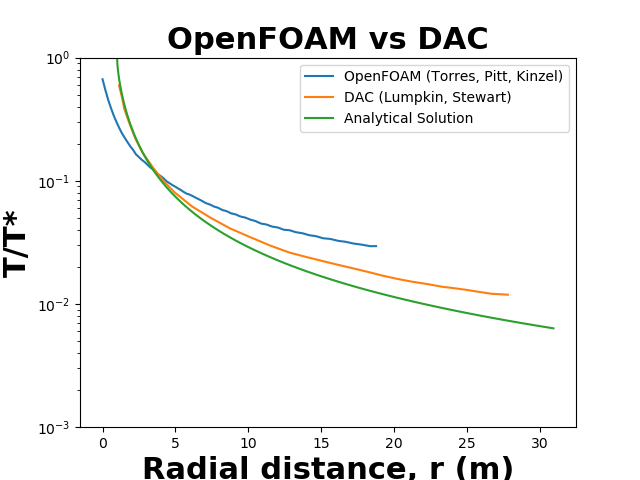
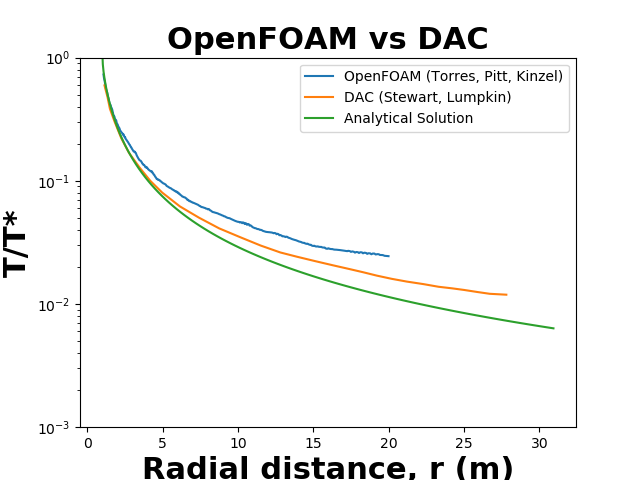
2d-wedge: update processInflowData.py to account for wedge boundary conditions and asign T_tra to the inlet

diff --git a/cases/2d-wedge/processInflowData.py b/cases/2d-wedge/processInflowData.py
@@ -6,8 +6,11 @@ import os
 import sys
 import numpy as np
 
+# resolution
+r = 132
+
 # Declare input data, angles from 0 to 90 degrees
-theta = np.linspace(0, 1.57, 33)
+theta = np.linspace(0, 1.57, r)
 # print(theta)
 
 p = 4 # Precision for rounding
@@ -40,7 +43,7 @@ print(Tx)
 print(Ty)
 
 rhoN = float(sys.argv[3])
-Nd = np.linspace(rhoN, rhoN, 33)
+Nd = np.linspace(rhoN, rhoN, r)
 print(Nd)
 
 # Save produced data in a dataframe (table of values)
@@ -111,12 +114,12 @@ with open("0/boundaryU", 'w') as f:
     print()
     print("    front")
     print("    {")
-    print("         type symmetry;")
+    print("         type wedge;")
     print("    }")
     print()
     print("    back")
     print("    {")
-    print("         type symmetry;")
+    print("         type wedge;")
     print("    }")
     print()
     print("    sym")
@@ -182,6 +185,7 @@ with open("0/boundaryT", 'w') as f:
         data = row[1]
         # print(data.name, data[0], data[1])
         print("            ( " + str(data[5]) + " " + str(data[6]) + " 0.0 )")
+        # print("            " + str(data[5]))
         # print()
     print("        );")
     print("    }")
@@ -192,12 +196,12 @@ with open("0/boundaryT", 'w') as f:
     print()
     print("    front")
     print("    {")
-    print("         type symmetry;")
+    print("         type wedge;")
     print("    }")
     print()
     print("    back")
     print("    {")
-    print("         type symmetry;")
+    print("         type wedge;")
     print("    }")
     print()
     print("    sym")
@@ -273,12 +277,12 @@ with open("0/boundaryNumberDensity_Ar", 'w') as f:
     print()
     print("    front")
     print("    {")
-    print("         type symmetry;")
+    print("         type wedge;")
     print("    }")
     print()
     print("    back")
     print("    {")
-    print("         type symmetry;")
+    print("         type wedge;")
     print("    }")
     print()
     print("    sym")
